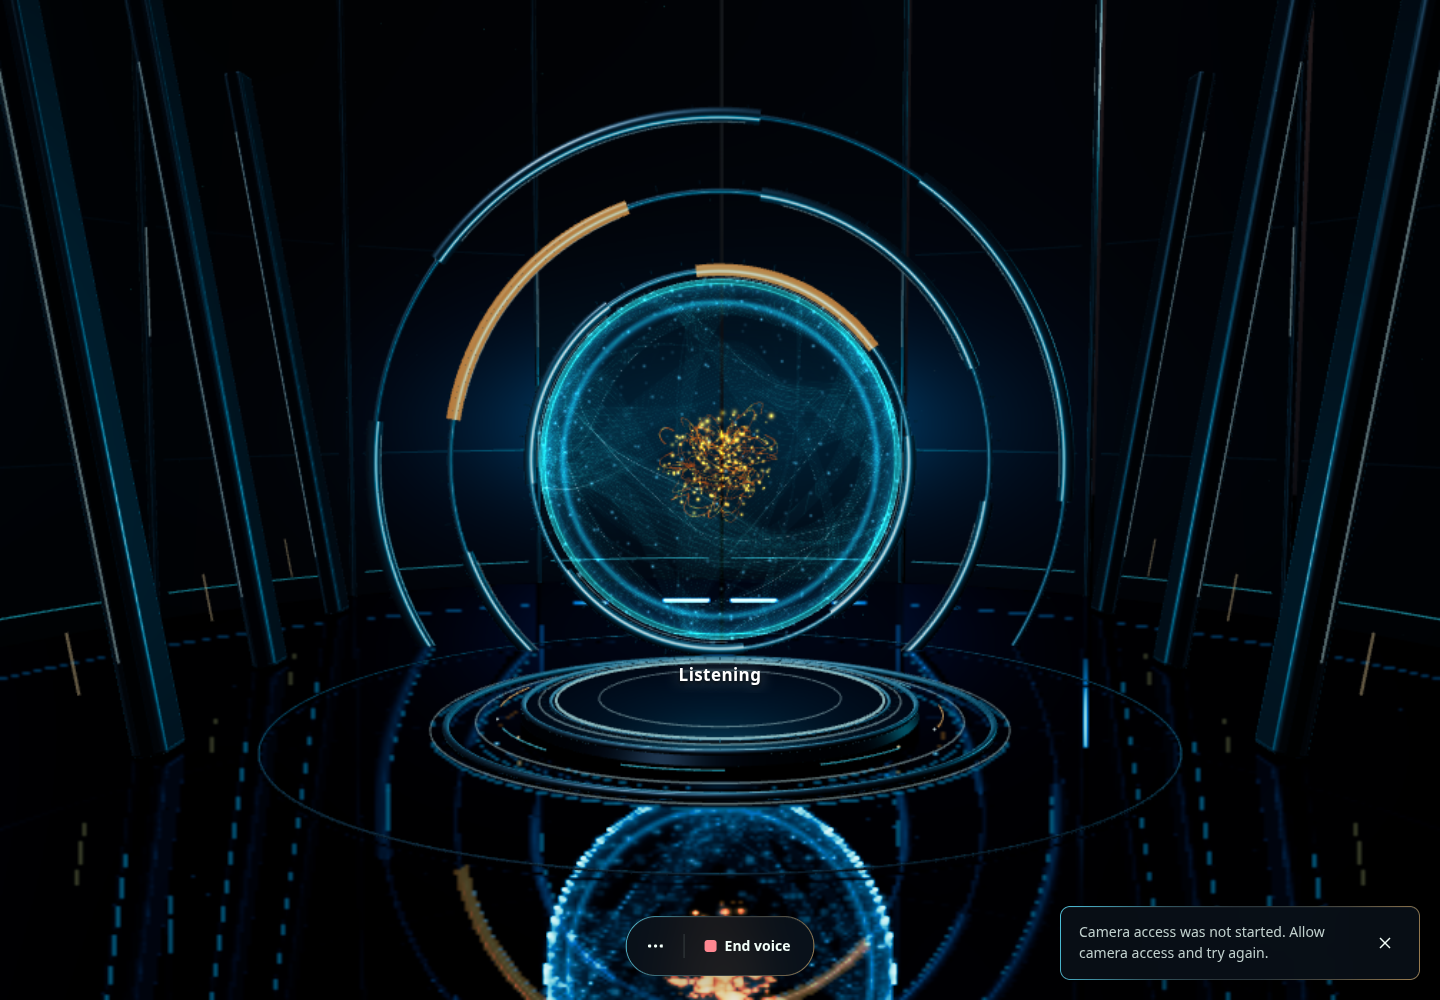
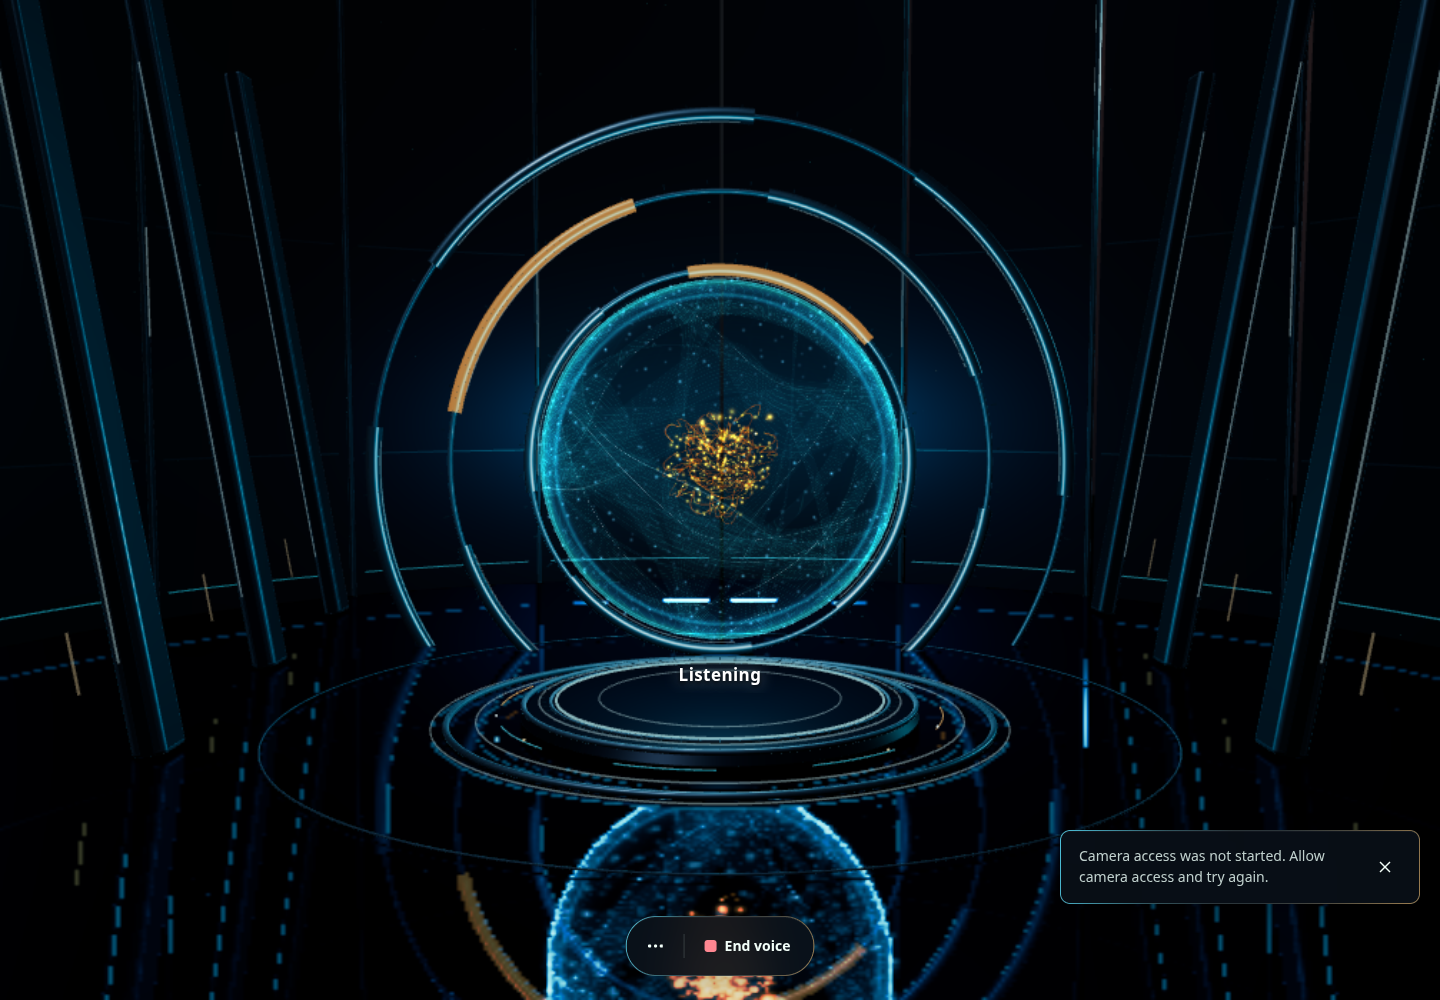
P8-43: Keep toast feedback out of controls and inline alerts

diff --git a/apps/web/src/ConversationToast.tsx b/apps/web/src/ConversationToast.tsx
@@ -1,14 +1,16 @@
-import { useEffect, useState } from 'react';
+import { useEffect, useLayoutEffect, useRef, useState } from 'react';
 import { createPortal } from 'react-dom';
 import './ConversationToast.css';
 
 export type ConversationNotification = { id: number; message: string; error: boolean };
 
 /** Transient feedback lives outside the composer and its transformed scene ancestors. */
-export function ConversationToast({ notification, onDismiss }: {
+export function ConversationToast({ notification, onDismiss, voiceActive = false }: {
   notification: ConversationNotification;
   onDismiss: () => void;
+  voiceActive?: boolean;
 }) {
+  const toast = useRef<HTMLDivElement>(null);
   const [paused, setPaused] = useState(false);
   useEffect(() => {
     if (paused) return;
@@ -16,8 +18,24 @@ export function ConversationToast({ notification, onDismiss }: {
     return () => clearTimeout(timer);
   }, [notification.id, onDismiss, paused]);
 
+  useLayoutEffect(() => {
+    const controls = document.querySelector(voiceActive ? '.voice-bar' : '.conversation-input');
+    const element = toast.current;
+    if (!controls || !element) return;
+    // Follow the real composer height, including multi-line drafts, and recalculate on mode changes.
+    const position = () => {
+      const bounds = controls.getBoundingClientRect();
+      if (bounds.height > 0) element.style.bottom = `${Math.max(20, window.innerHeight - bounds.top + 12)}px`;
+    };
+    position();
+    const observer = typeof ResizeObserver === 'function' ? new ResizeObserver(position) : null;
+    observer?.observe(controls);
+    window.addEventListener('resize', position);
+    return () => { observer?.disconnect(); window.removeEventListener('resize', position); };
+  }, [voiceActive]);
+
   return createPortal(
-    <div className="conversation-toast luminous-glass" data-error={notification.error}
+    <div ref={toast} className="conversation-toast luminous-glass" data-error={notification.error}
       onPointerEnter={() => setPaused(true)} onPointerLeave={() => setPaused(false)}
       onFocus={() => setPaused(true)} onBlur={() => setPaused(false)}>
       <p role={notification.error ? 'alert' : 'status'} aria-atomic="true">{notification.message}</p>

diff --git a/apps/web/src/screen-sharing.ts b/apps/web/src/screen-sharing.ts
@@ -14,7 +14,7 @@ export interface ScreenShareController {
   readonly error: string;
   start(onError?: (message: string) => void): Promise<void>;
   stop(): void;
-  inspect(sessionId: string): Promise<VisionContext>;
+  inspect(sessionId: string, feedback?: 'inline' | 'caller'): Promise<VisionContext>;
 }
 
 export interface VisionContext {
@@ -118,7 +118,11 @@ function useVisionCapture(
 
   const start = useCallback(async (onError?: (message: string) => void) => {
     setError('');
-    const fail = (message: string) => { setError(message); onError?.(message); };
+    const fail = (message: string) => {
+      // The initiating control owns feedback: toast callers must not leave a second inline alert.
+      if (onError) onError(message);
+      else setError(message);
+    };
     if (streamRef.current || startPendingRef.current) return;
     if (source === 'camera' && !navigator.mediaDevices?.getUserMedia) {
       fail('Camera access is not available in this browser.');
@@ -176,7 +180,7 @@ function useVisionCapture(
     streamRef.current = null;
   }, []);
 
-  const inspect = useCallback(async (sessionId: string) => {
+  const inspect = useCallback(async (sessionId: string, feedback: 'inline' | 'caller' = 'inline') => {
     setError('');
     if (!/^[1-9]\d{0,18}$/u.test(sessionId) || BigInt(sessionId) > 9_223_372_036_854_775_807n) {
       throw new Error('An active conversation is required to inspect a visual frame.');
@@ -239,7 +243,7 @@ function useVisionCapture(
       const message = reason instanceof Error && reason.name !== 'AbortError' && reason.name !== 'TimeoutError'
         ? reason.message
         : `Jarvis could not inspect the ${label} frame. Try again.`;
-      setError(message);
+      if (feedback === 'inline') setError(message);
       throw new Error(message, { cause: reason });
     } finally {
       clearTimeout(timeout);

diff --git a/apps/web/src/VoiceControls.test.tsx b/apps/web/src/VoiceControls.test.tsx
@@ -224,7 +224,7 @@ describe('VoiceControls', () => {
     expect(cameraItem.getAttribute('aria-disabled')).toBeNull();
     fireEvent.click(screen.getByRole('menuitem', { name: 'Look at screen' }));
     expect(screen.queryByRole('menu')).toBeNull();
-    expect(screenShare.inspect).toHaveBeenCalledWith('42');
+    expect(screenShare.inspect).toHaveBeenCalledWith('42', 'caller');
   });
 
   it('starts screen and camera capture from More without inspecting a frame, then offers stop controls', async () => {
@@ -454,7 +454,7 @@ describe('VoiceControls', () => {
     act(() => options.onSessionReady('42'));
     options.onVisionRequest('camera', 'What am I holding?');
 
-    await waitFor(() => expect(camera.inspect).toHaveBeenCalledWith('42'));
+    await waitFor(() => expect(camera.inspect).toHaveBeenCalledWith('42', 'caller'));
     expect(instance.client.sendScreenContext).toHaveBeenCalledWith('A red mug.', undefined);
     act(() => options.onStatus('stopped', 'Voice is off.'));
     expect(camera.stop).toHaveBeenCalledOnce();

diff --git a/apps/web/src/VoiceControls.tsx b/apps/web/src/VoiceControls.tsx
@@ -236,7 +236,7 @@ export function VoiceControls({
       return;
     }
     try {
-      const context = await capture.inspect(sessionId);
+      const context = await capture.inspect(sessionId, 'caller');
       if (client.current !== voice || screenSessionIdRef.current !== sessionId) return;
       voice.sendScreenContext(
         context.description,
@@ -353,7 +353,7 @@ export function VoiceControls({
           <span className="voice-start-label" aria-hidden="true">Start voice</span>
         </div>
       )}
-      {notification && <ConversationToast notification={notification} onDismiss={dismissNotification} />}
+      {notification && <ConversationToast voiceActive={active} notification={notification} onDismiss={dismissNotification} />}
     </div>
   );
 }

diff --git a/apps/web/src/camera-capture.test.tsx b/apps/web/src/camera-capture.test.tsx
@@ -74,6 +74,7 @@ describe('camera frame capture', () => {
     render(<CameraHarness onError={onError} />);
     await act(async () => { fireEvent.click(screen.getByRole('button', { name: 'Turn camera on' })); });
     expect(onError).toHaveBeenCalledWith('Camera access was not started. Allow camera access and try again.');
+    expect(screen.queryByRole('alert')).toBeNull();
     expect(screen.getByRole('status').textContent).toBe('Camera is off');
     expect(fetchMock).not.toHaveBeenCalled();
   });

diff --git a/PLAN.md b/PLAN.md
@@ -4,7 +4,7 @@ Phase 1 delivers the Software Factory. Requirements and page specifications are 
 
 ## Current focus
 
-- **Voice UI hotfix (#435):** Codex is implementing direct screen/camera sharing from More, bottom-right transient notifications, white projected orb status and livelier dormant/active core motion in one PR. Preserve the approved wake sequence and real capture/playback lifecycle; coordinate shared conversation files with #418.
+- **Voice UI hotfix (#435):** Implemented in PR #437: direct screen/camera sharing from More, bottom-right transient notifications, white projected orb status and livelier dormant/active core motion. Browser fixtures and relevant web checks pass. Preserve the approved wake sequence and real capture/playback lifecycle; coordinate shared conversation files with #418.
 
 - **P7-32 (#406, extending P7-07 #205):** `pc_act` controls any foreground Windows app with one Jev decision per fresh UI Automation snapshot, bounded to 20 steps/30 seconds or cancellation. Sensitive values remain blocked; typed text must be quoted; only irreversible send/delete/pay/purchase/post/push/overwrite actions require P7-03 approval. The persisted tray pause blocks PC control actions and reports active/paused state through the existing Now activity row. Focused fake-tree/backend tests (31), .NET core tests (92), backend lint/build, and the Linux Windows-target build pass; Dan's live Windows, Jev, and approval checks remain pending. Website tasks stay on Chrome; no Foundry computer-use or raw shell is used.
 - **P7-34 (#424):** Implemented offline. `pc_act` and `browser_do` can choose from closed-set keyboard sequences (up to four chords) or type an explicit quoted value into the focused control. The bridge blocks sensitive fields and dangerous system chords; only irreversible keyboard actions require P7-03 approval, and step logs remain redacted. Focused fake-provider/backend tests, .NET core tests and the Linux Windows-target build pass; live Windows, Chrome, Jev and approval checks remain pending.

diff --git a/DESIGN.md b/DESIGN.md
@@ -692,4 +692,4 @@ Copilot reported fixture browser layout checks at desktop, 390/320/280px, short 
 
 ## Voice UI hotfix — 6 October 2026 (#435)
 
-Use unframed white status text beneath the orb, with soft light and a dark contrast shadow; preserve recovery text and responsive placement. Bottom-right smoky-glass toasts hold transient feedback with a dismiss control, a ten-second lifetime paused while hovered or focused, and a phone offset above the controls. They render outside the composer and menu. Dormancy has a restrained cyan breath and visible stirring amber core; awake core filaments and sparks move more strongly without filling the transparent core. Preserve the wake sequence, fixed room/camera/platform, mirror and runtime-driven states. Canonical component styles remain in `VoiceControls.css` and `ConversationToast.css`; scene motion remains in `JarvisStageOrb.ts` and `jarvis-stage-scene.ts`.
+Use unframed white status text beneath the orb, with soft light and a dark contrast shadow; preserve recovery text and responsive placement. Bottom-right smoky-glass toasts hold transient feedback with a dismiss control, a ten-second lifetime paused while hovered or focused, and an offset above the measured composer or voice controls at every width. They render outside the composer and menu. Dormancy has a restrained cyan breath and visible stirring amber core; awake core filaments and sparks move more strongly without filling the transparent core. Preserve the wake sequence, fixed room/camera/platform, mirror and runtime-driven states. Canonical component styles remain in `VoiceControls.css` and `ConversationToast.css`; scene motion remains in `JarvisStageOrb.ts` and `jarvis-stage-scene.ts`.

diff --git a/docs/architecture.md b/docs/architecture.md
@@ -74,11 +74,13 @@ Jarvis is one backend with a shared core and one module per area, a static web a
   envelopes. No backend protocol or persistence change is required.
 - P8-43 (#435) adds screen/camera start/stop to voice More while reusing
   `useVisionCapture` and the same authenticated frame endpoint. `start` accepts an
-  optional failure callback so its initiating control can show permission errors
-  without polling hook state. Inspection remains on request; late results from an
+  optional failure callback so its initiating control owns permission feedback,
+  without retaining a duplicate inline error. Voice inspection also opts into
+  caller-owned feedback. Inspection remains on request; late results from an
   ended/replaced voice session are discarded. `ConversationToast` portals transient
   feedback to the document body, outside transformed scene/composer ancestors,
-  with dismissal and a hover/focus-paused timeout. `VoiceOrbStatus` remains HTML
+  with dismissal, a hover/focus-paused timeout, and an offset above the actual
+  composer/voice-bar height. `VoiceOrbStatus` remains HTML
   live status with white unframed text. Existing orb shaders add a continuous
   integrated core phase and low dormant light baseline; reduced motion freezes
   time. No new dependency, backend protocol or persistence is introduced.
